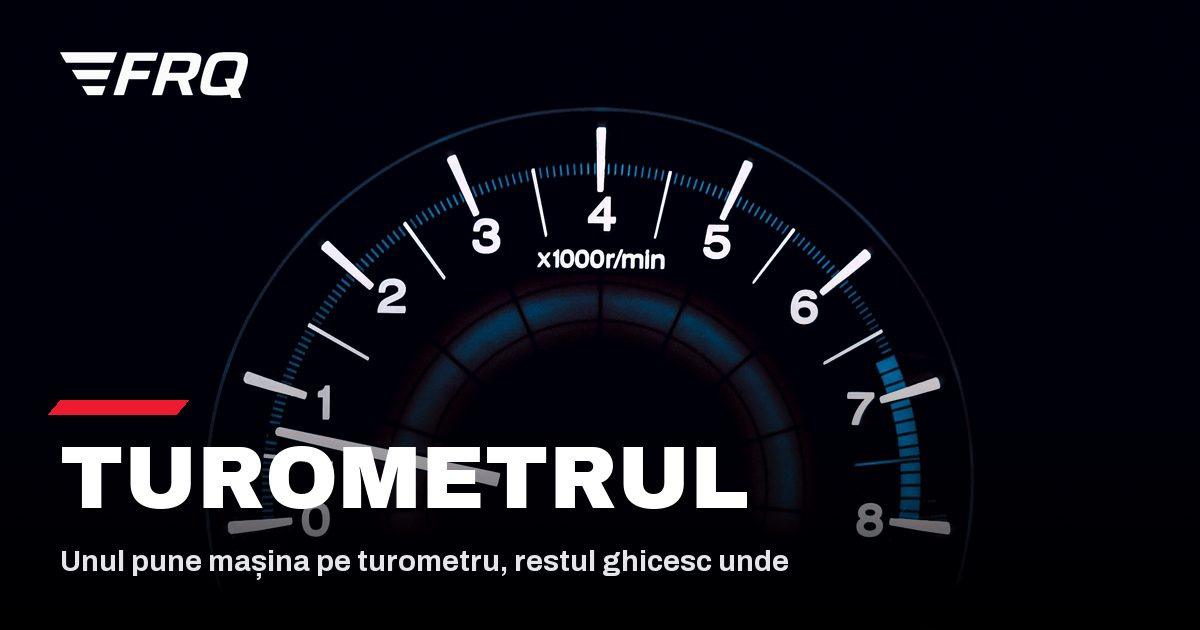
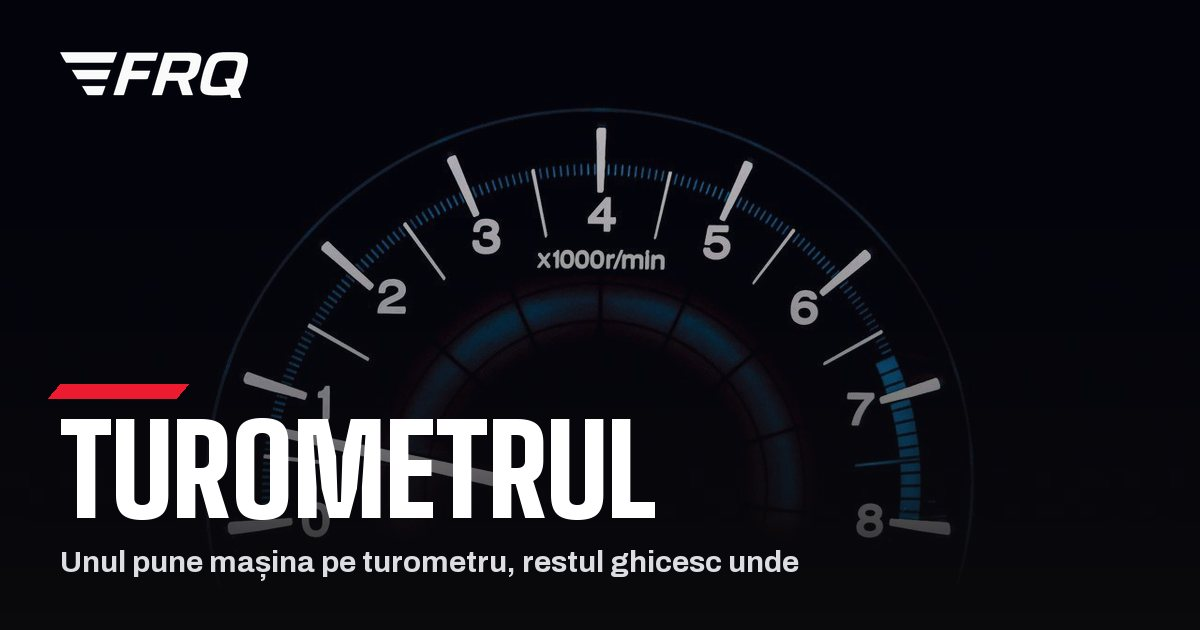
Preview-urile de link cu fontul nou, și Samsarul în descrierea paginii de start
Imaginile care apar când trimiți un link pe WhatsApp aveau titlurile scrise cu
Archivo Black, deci nu se mai potriveau cu site-ul. Le-am refăcut cu Big Shoulders
Display: același cadru, dar titlul poate fi mai mare pe aceeași lățime, 124 de
pixeli, iar „CEL MAI BUN SAMSAR" încape pe un rând. Și Samsarul are acum preview în
aceeași familie cu celelalte.

Pe drum: preview-ul paginii de start scria „Șase jocuri", iar descrierea ei, cea
care apare pe Google și sub link, enumera doar șase jocuri, fără Cel mai bun
samsar. Acum sunt toate șapte, în română și în engleză.

diff --git a/index.html b/index.html
@@ -4,7 +4,7 @@
   <meta charset="utf-8">
   <meta name="viewport" content="width=device-width, initial-scale=1, viewport-fit=cover">
   <title>Jocuri FRQ</title>
-  <meta name="description" content="Jocuri cu mașini: Sus sau jos, Mașina perfectă, Turometrul, În ordine, Garaj sau presă și Licitația.">
+  <meta name="description" content="Jocuri cu mașini: Sus sau jos, Mașina perfectă, Turometrul, În ordine, Garaj sau presă, Licitația și Cel mai bun samsar.">
   <link rel="preload" href="fonts/archivo-var.woff2" as="font" type="font/woff2" crossorigin>
   <link rel="preload" href="fonts/big-shoulders.woff2" as="font" type="font/woff2" crossorigin>
   <link rel="icon" href="favicon.svg" type="image/svg+xml">
@@ -13,7 +13,7 @@
   <meta property="og:type" content="website">
   <meta property="og:site_name" content="Jocuri FRQ">
   <meta property="og:title" content="Jocuri FRQ">
-  <meta property="og:description" content="Jocuri cu mașini: Sus sau jos, Mașina perfectă, Turometrul, În ordine, Garaj sau presă și Licitația.">
+  <meta property="og:description" content="Jocuri cu mașini: Sus sau jos, Mașina perfectă, Turometrul, În ordine, Garaj sau presă, Licitația și Cel mai bun samsar.">
   <meta property="og:url" content="https://frincu13.github.io/car-higher-lower/index.html">
   <meta property="og:image" content="https://frincu13.github.io/car-higher-lower/img/og-hub.jpg">
   <meta property="og:image:width" content="1200">

diff --git a/i18n.js b/i18n.js
@@ -103,8 +103,8 @@ window.I18n = (() => {
     // ---- hub ----
     'Alege': 'Pick',
     'jocul': 'a game',
-    'Jocuri cu mașini: Sus sau jos, Mașina perfectă, Turometrul, În ordine, Garaj sau presă și Licitația.':
-      'Car games: Higher or Lower, The Perfect Car, The Rev Counter, In Order, Garage or Crusher and The Auction.',
+    'Jocuri cu mașini: Sus sau jos, Mașina perfectă, Turometrul, În ordine, Garaj sau presă, Licitația și Cel mai bun samsar.':
+      'Car games: Higher or Lower, The Perfect Car, The Rev Counter, In Order, Garage or Crusher, The Auction and The Best Dealer.',
     'Jocurile anterioare': 'Previous games',
     'Jocurile următoare': 'Next games',
     '1 jucător': '1 player',

diff --git a/sw.js b/sw.js
@@ -1,7 +1,7 @@
 // Offline support: the game files are cached on install, so the games run with no
 // signal. Pages are fetched from the network first (so a deploy shows up right away)
 // and fall back to the cache; car photos from Wikimedia are kept in a second cache.
-const V = 'frq-v28';
+const V = 'frq-v29';
 const CORE = `${V}-core`;
 const PHOTOS = `${V}-photos`;
 const PHOTO_MAX = 300;
